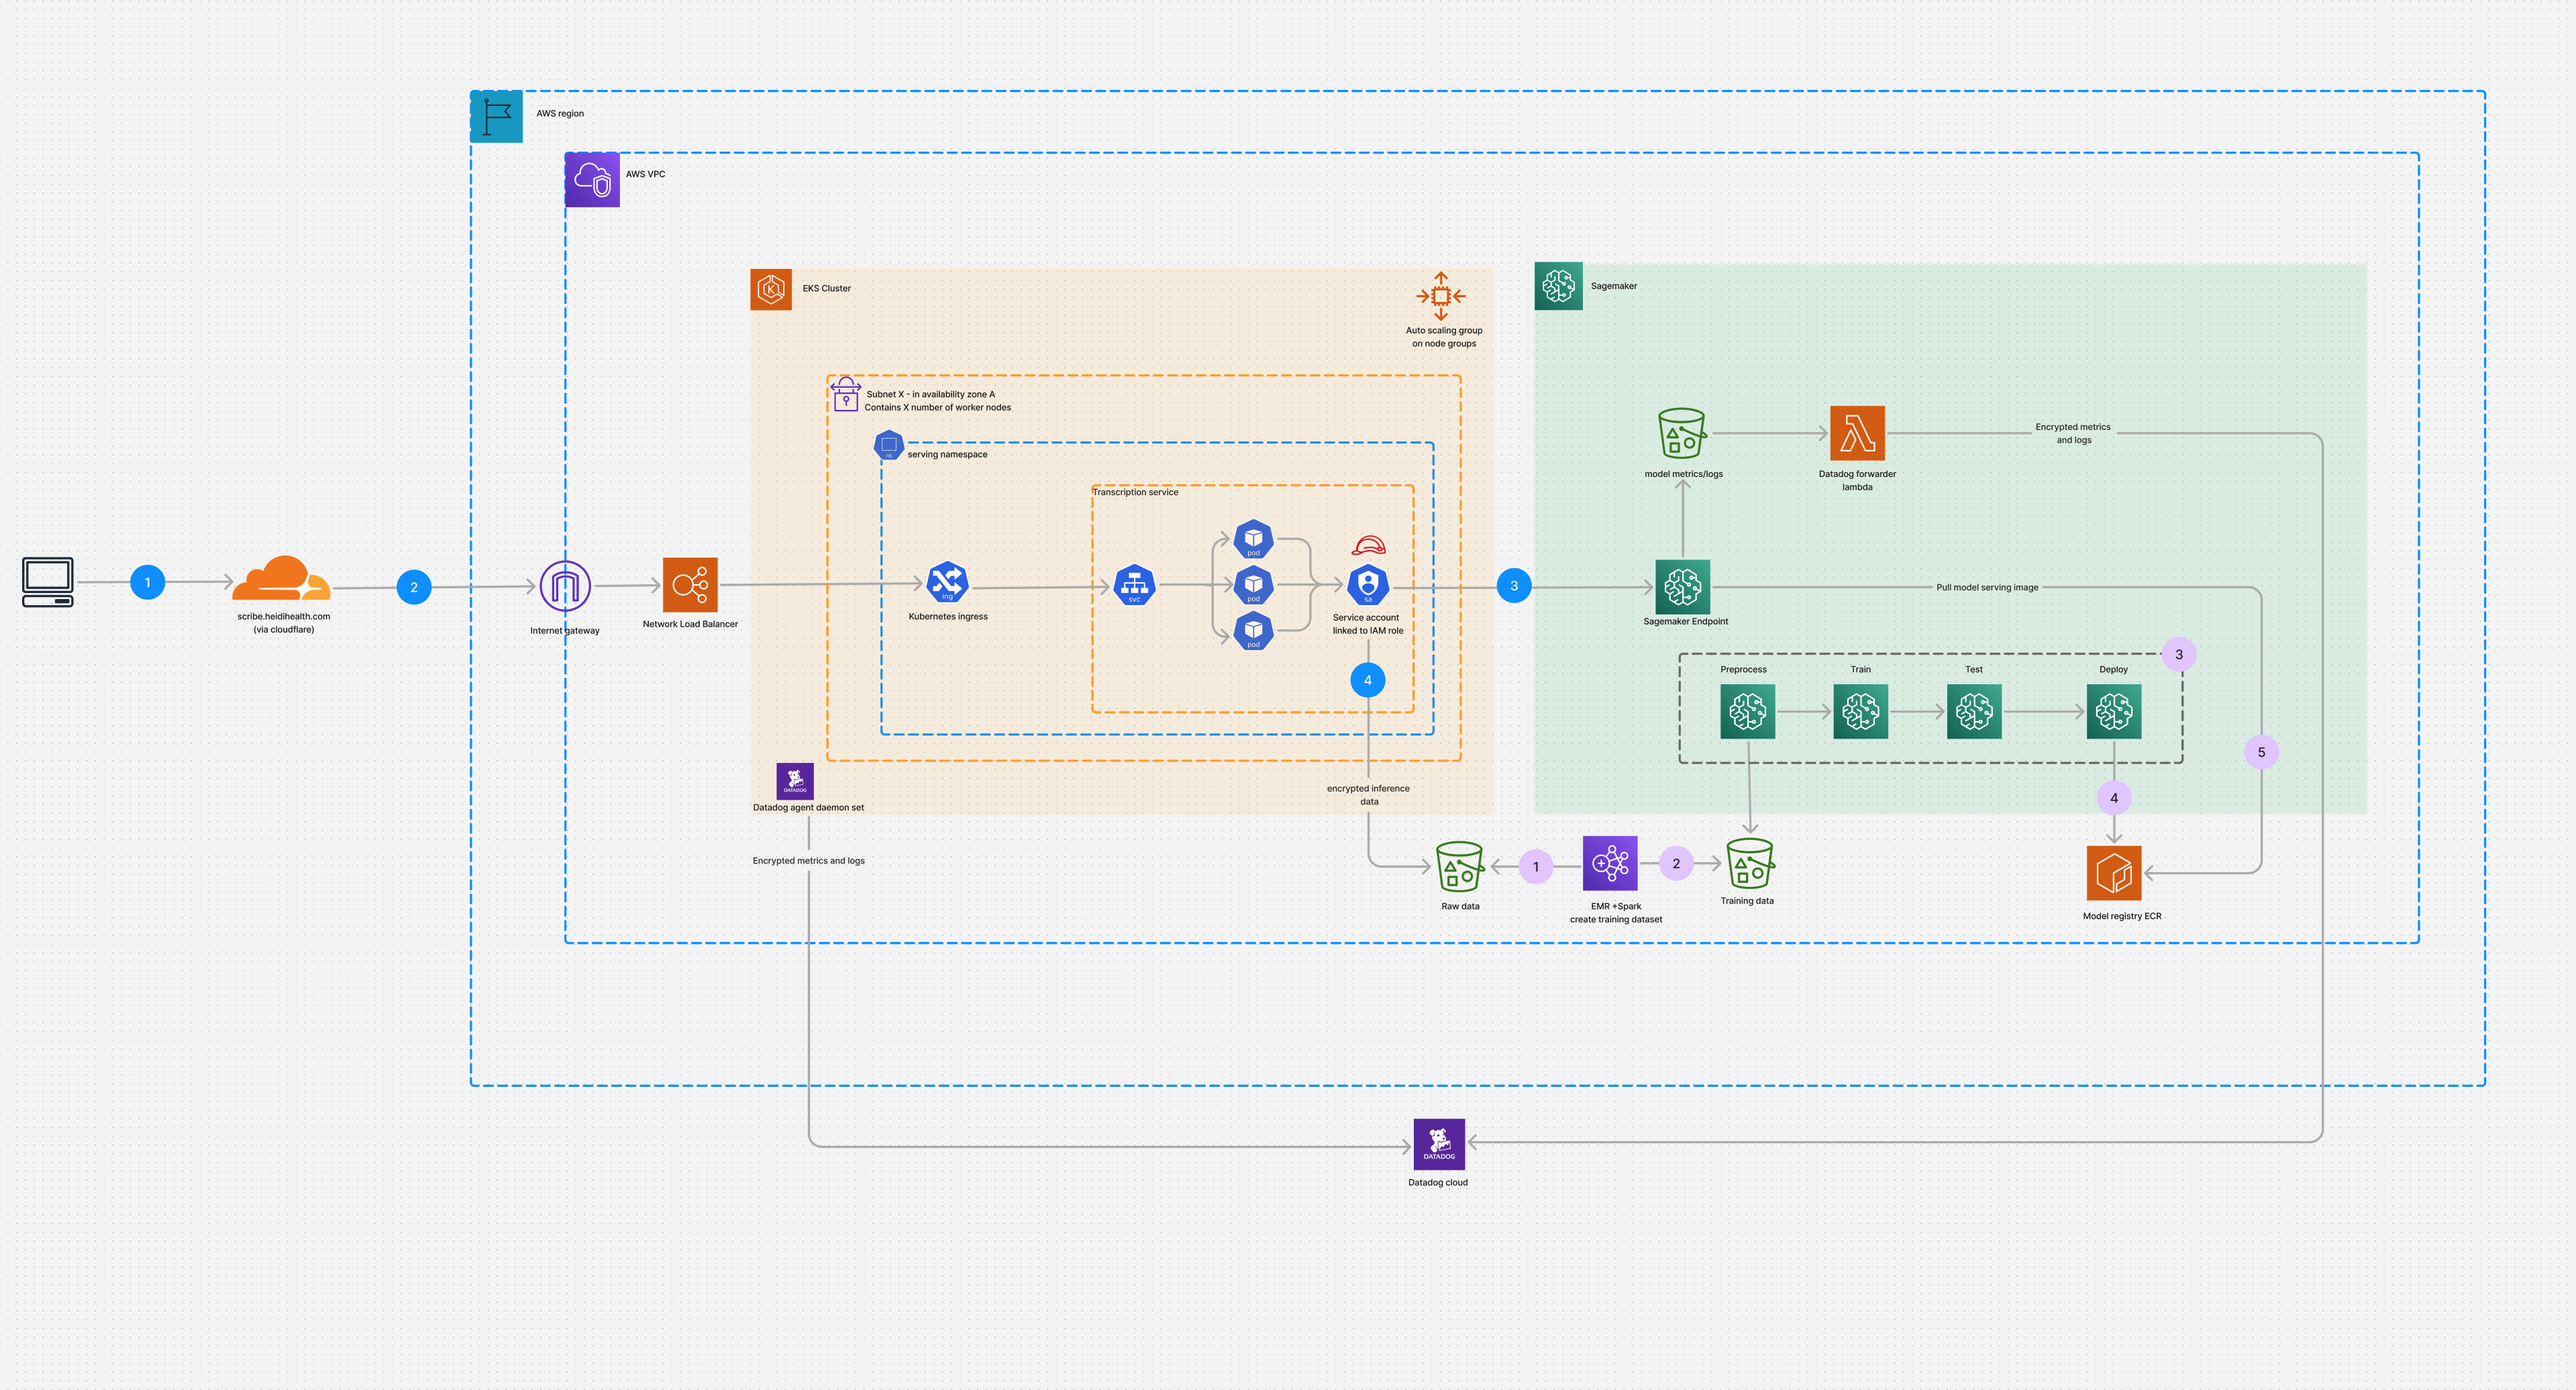
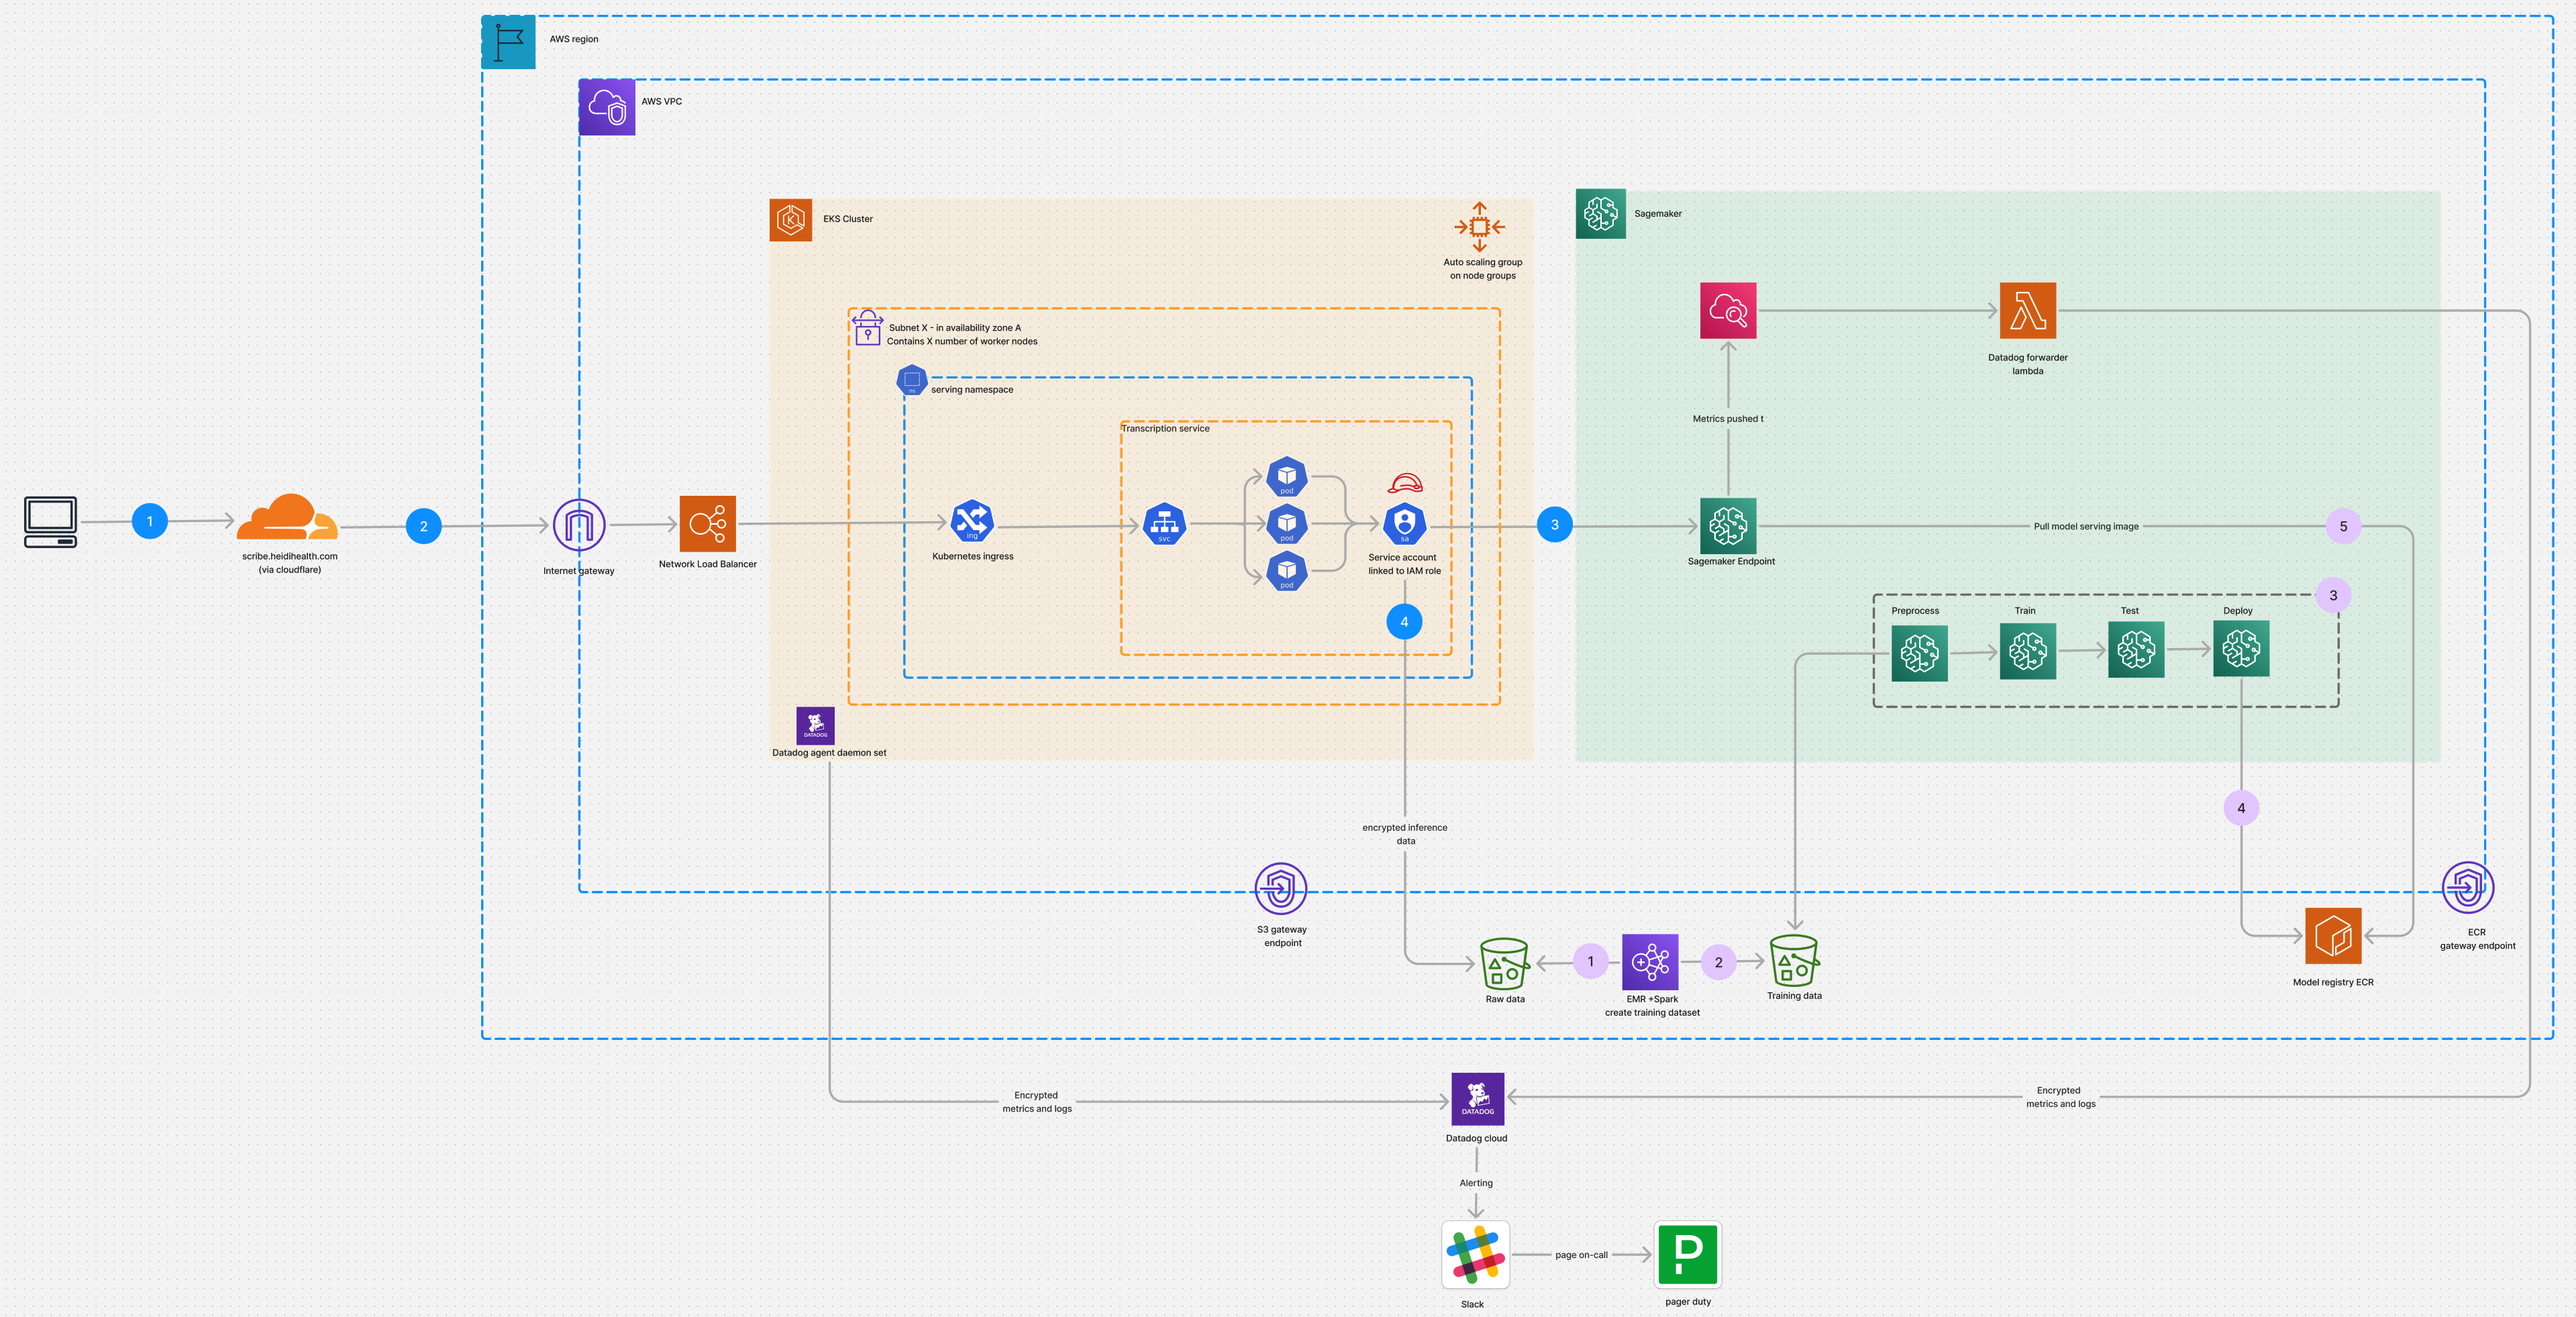
sample networking infra

diff --git a/README.md b/README.md
@@ -4,3 +4,19 @@
 
 ![architecture diagram](./architecture-diagram.png)
 
+## Sample implementation
+I have added a sample implementation of the some of the key networking components, the sample implementation includes.
+  - Cloudflare proxy 
+  - Internet gateway
+  - VPC
+  - load balancer
+  - EKS node groups
+
+## Explanation 
+
+### Networking Decisions
+
+### Security decisions 
+
+### Monitoring 
+
